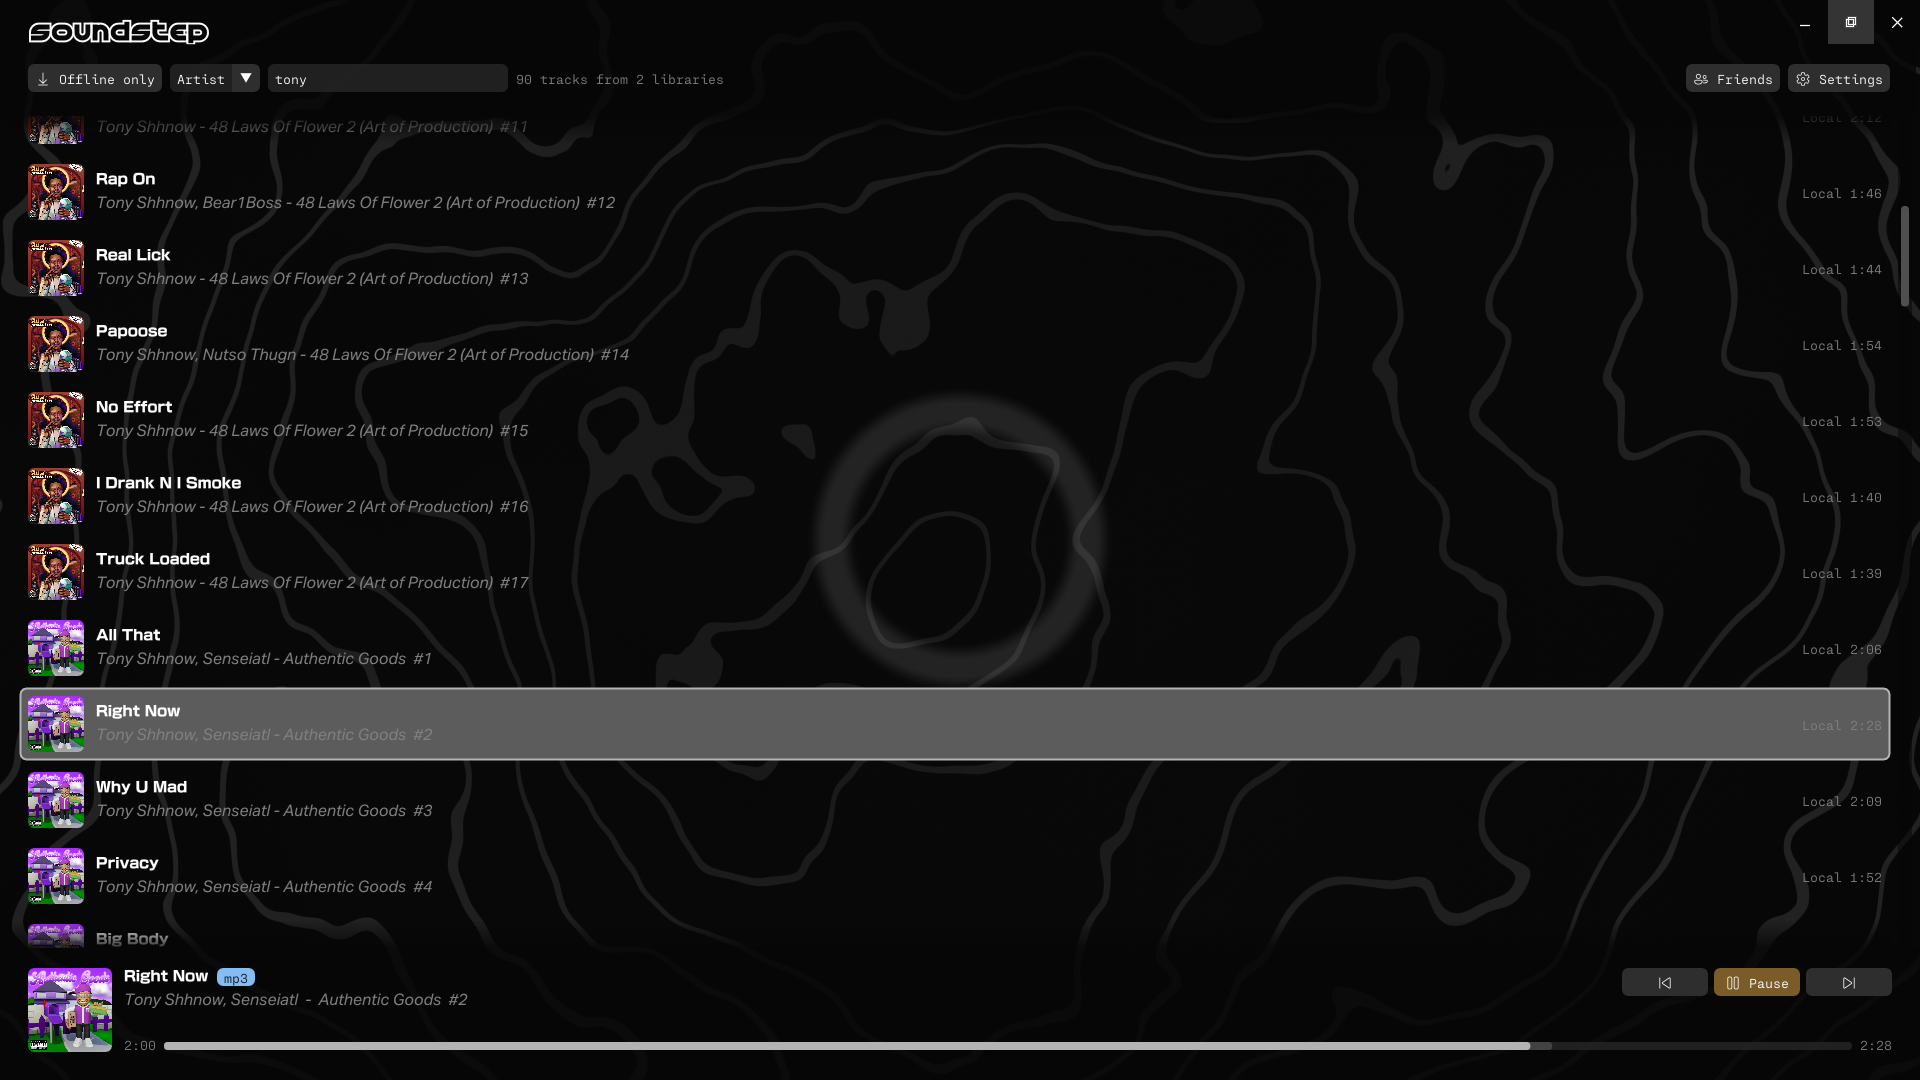
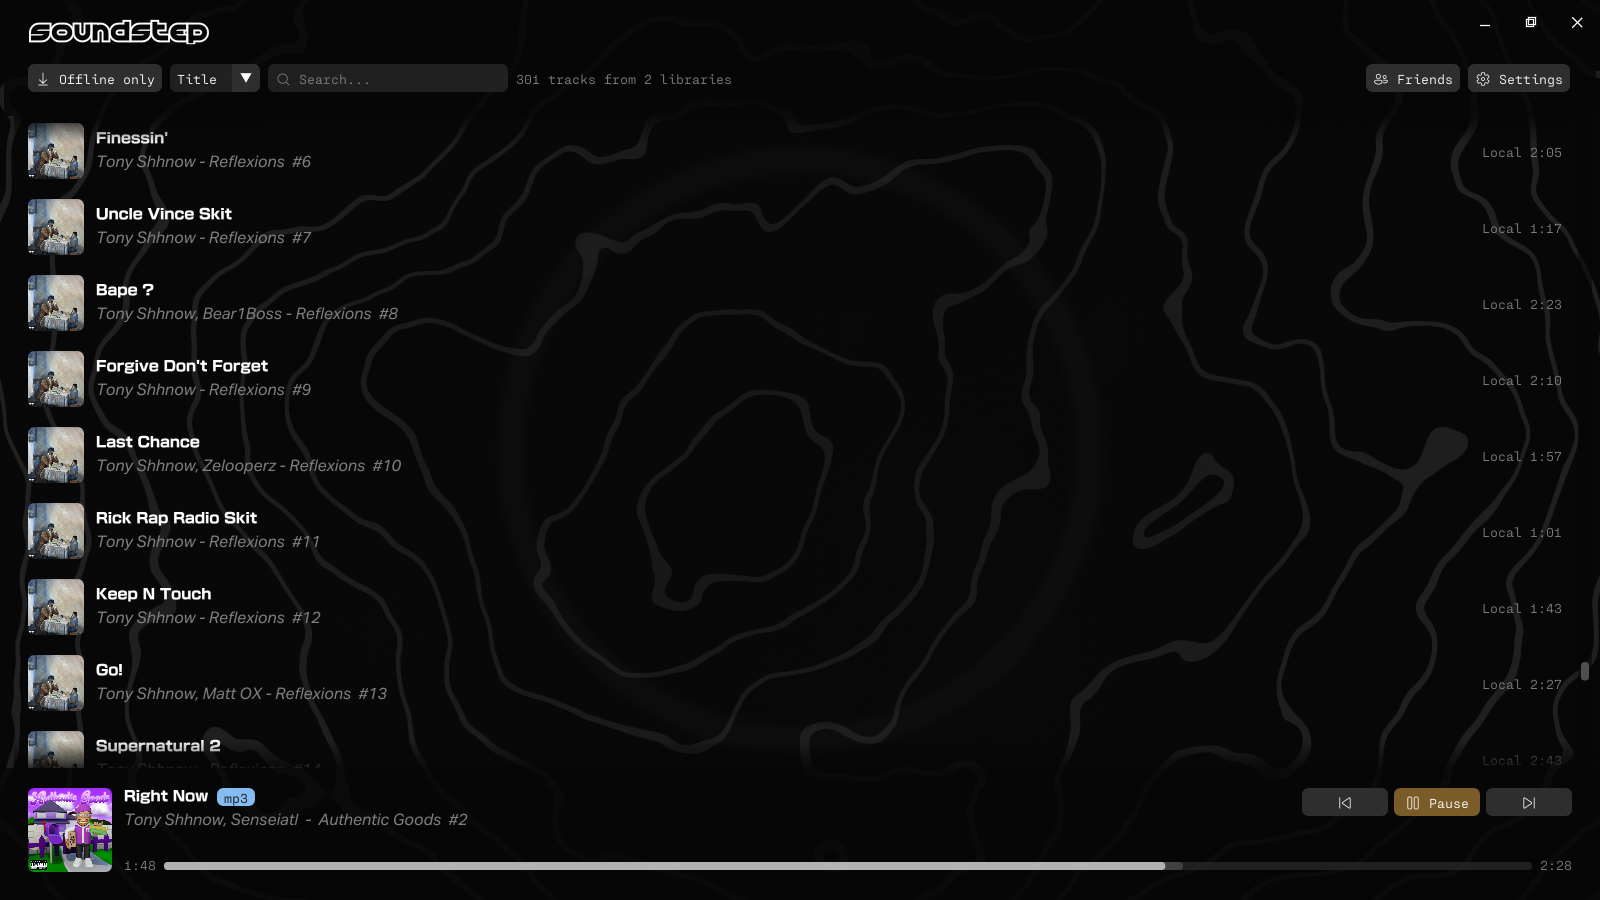
Readme

diff --git a/README.md b/README.md
@@ -1,12 +1,14 @@
-# SoundStep
+# soundstep
 
-Modern music player with P2P library sharing for Windows, Linux and Android over LAN and IPv6. LAN devices are discovered automatically and IPv6 connexions require sharing a code between devices. Shared tracks can be streamed and saved to be listened locally. Built it to listen to my music on my phone when afk.
+Modern music player with P2P library sharing for Windows, Linux and Android over LAN and IPv6, connected devices share their local library to their connected peers.
 
 ![](/image/readme_000.png "")
 
+LAN devices are discovered automatically, IPv6 connexions require sharing a code between devices. Shared tracks can be streamed and saved to be listened locally. Built it to listen to my music on my phone when afk.
+
 # Requirements
 
-Building yourself requires CMake > 3.20 and a C++17 compiler. Android crossplatform build requires NDK, Java and Ninja.
+Building requires CMake > 3.20 and a C++17 compiler. Android crossplatform build requires NDK, Java and Ninja.
 
 # Limitations
  
